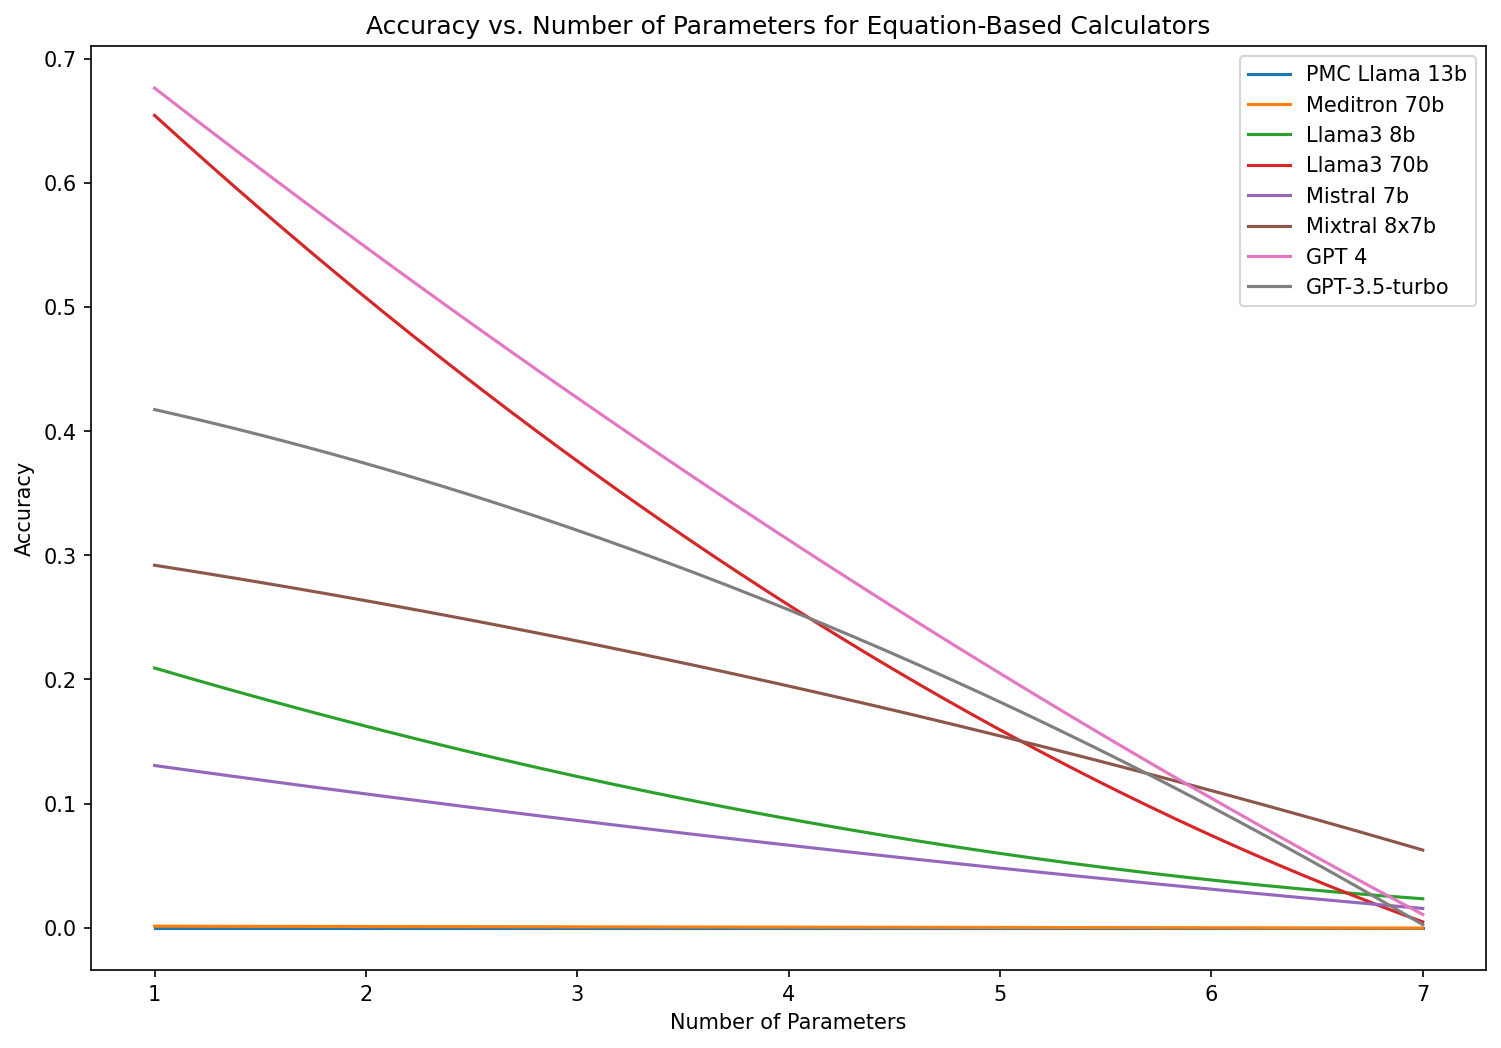
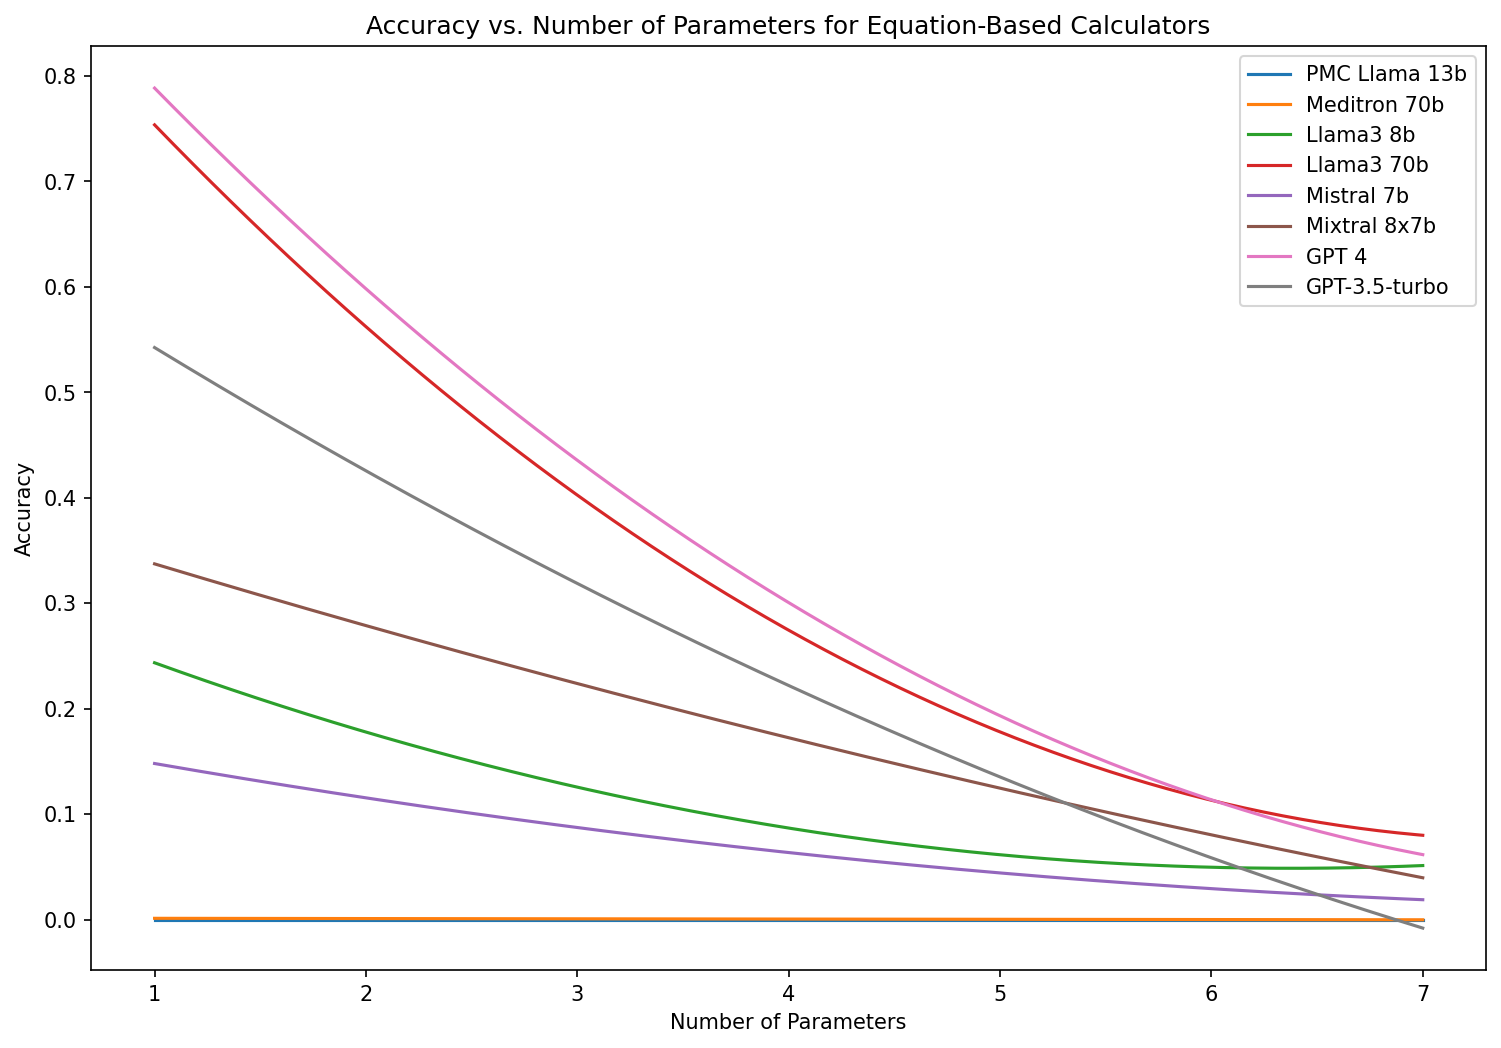
Appendix E.1 figures: count only parameters the calculator code reads
- evaluation/attribute_analysis.py: "Question" is not a parameter (MME was
  counted as 1); MME rows use their own number of inputs; drop inputs the
  code never reads (IBW weight, RCRI age, APACHE II MAP)
- regenerated Figures 2-3, points and fit coefficients
- release: add figures/; consolidated README: paper-to-script map, Table 3
  check

diff --git a/evaluation/attribute_analysis.py b/evaluation/attribute_analysis.py
@@ -2,8 +2,10 @@
 Accuracy vs. number of attributes (paper Appendix E.1, Figures 2 and 3).
 
 The number of attributes of a calculator is the number of its attributes in calculator_implementations_verified/
-name_to_python.json (its entries other than file path, explanation function, calculator name, type and question), and
-each row gets the count of its calculator. For each model, the accuracy at each attribute count is the share of rows with that
+name_to_python.json (its entries other than file path, explanation function, calculator name, type and question, and
+other than the entries in UNUSED, which the calculator code never reads), and each row gets the count of its
+calculator. MME has no fixed inputs, so its rows get their own number of Relevant Entities (dose and doses per day for
+each opioid). For each model, the accuracy at each attribute count is the share of rows with that
 count answered correctly; a second-degree polynomial is fitted to these points (np.polyfit) and drawn over the observed
 range, one figure for equation-based (lab, physical, date, dosage) and one for rule-based (risk, severity, diagnosis)
 calculators.
@@ -40,7 +42,21 @@ TYPES = {
     "rule": ("Rule-Based", ["risk", "severity", "diagnosis"]),
 }
 SETTINGS = ["direct_answer", "zero_shot", "one_shot"]
-NOT_ATTRIBUTES = {"file path", "explanation function", "calculator name", "type", "question"}
+NOT_ATTRIBUTES = {"file path", "explanation function", "calculator name", "type", "question", "Question"}  # MME's entry has both spellings
+# entries listed in name_to_python.json that the calculator code never reads (checked 2026-11-13)
+UNUSED = {10: {"weight"},                   # Ideal Body Weight: Devine formula uses sex and height only
+          17: {"age"},                      # Revised Cardiac Risk Index: six criteria, age is not one
+          28: {"Mean arterial pressure"}}   # APACHE II: MAP is computed from systolic and diastolic pressure
+# MME has no fixed inputs (a dose and doses per day for each opioid the patient takes): count the row's Relevant Entities
+PER_ROW = {49}
+
+
+def count_entities(s):
+    import ast
+    try:
+        return len(json.loads(s))
+    except Exception:
+        return len(ast.literal_eval(s))
 
 
 def load_results(path):
@@ -93,8 +109,11 @@ if __name__ == "__main__":
 
     data = pd.read_csv(args.data).set_index("Row Number")
     calculators = json.load(open(args.calculators))
-    attributes = {int(calc_id): len(set(calc) - NOT_ATTRIBUTES) for calc_id, calc in calculators.items()}
+    attributes = {int(calc_id): len(set(calc) - NOT_ATTRIBUTES - UNUSED.get(int(calc_id), set()))
+                  for calc_id, calc in calculators.items()}
     n_attributes = data["Calculator ID"].map(attributes)
+    per_row = data["Calculator ID"].isin(PER_ROW)
+    n_attributes[per_row] = data.loc[per_row, "Relevant Entities"].map(count_entities)
     if n_attributes.isna().any():
         raise SystemExit(f"calculators missing from {args.calculators}: {sorted(data['Calculator ID'][n_attributes.isna()].unique())}")
     os.makedirs(args.out_dir, exist_ok=True)

diff --git a/final_runs/consolidated_2026-11-06/build_final_release.py b/final_runs/consolidated_2026-11-06/build_final_release.py
@@ -7,7 +7,7 @@ Copies only (no recomputation, no model calls); source folders are not modified.
 - dataset/one_shot_examples.json: final_files_2026-10-16/one_shot_10_17_2026_corrected.json (differs from the main run's
   file only in the CKD-EPI example wording, which the CKD-EPI one-shot re-run used).
 - dataset/train_data.csv: dataset/train_data_10_22.csv (open items listed in the release README).
-- outputs/, error_analysis/, tables/: from this folder.
+- outputs/, error_analysis/, tables/, figures/ (Appendix E.1): from this folder.
 Writes MANIFEST.csv (rows and sha256 per file)."""
 import hashlib, json, os, shutil, sys
 import pandas as pd
@@ -30,6 +30,9 @@ COPIES = {
 for f in sorted(os.listdir(f"{HERE}/outputs")):
     if f.endswith(".jsonl"):
         COPIES[f"outputs/{f}"] = f"final_runs/consolidated_2026-11-06/outputs/{f}"
+for f in sorted(os.listdir(f"{HERE}/accuracy_vs_param_count")):
+    if f.endswith((".png", ".csv")):
+        COPIES[f"figures/{f}"] = f"final_runs/consolidated_2026-11-06/accuracy_vs_param_count/{f}"
 for f in sorted(os.listdir(f"{HERE}/tables")):
     COPIES[f"tables/{f}"] = f"final_runs/consolidated_2026-11-06/tables/{f}"
 

diff --git a/final_runs/consolidated_2026-11-06/README.md b/final_runs/consolidated_2026-11-06/README.md
@@ -14,7 +14,7 @@ against the corrected labels, and the three paper tables built from them. Source
 | `make_stats_table.py` | `tables/dataset_statistics_table.tex` (dataset statistics table) |
 | `make_code_table.py` | `outputs/code_exec_*.jsonl` (GPT-3.5 / GPT-4 code prompt, spliced the same way) and `tables/code_interpreter_table.tex` |
 | `make_train_table.py` | `tables/train_table.tex` (Appendix C training-set table, from `dataset/train_data_10_22.csv`) and the numbers for the C.1 text |
-| `accuracy_vs_param_count/run.sh` | Appendix E.1 figures (accuracy vs. number of parameters, zero-shot; equation and rule) from `outputs/`, with `evaluation/attribute_analysis.py` unchanged; points and fit coefficients as CSV in the same folder |
+| `accuracy_vs_param_count/run.sh` | Appendix E.1 figures (accuracy vs. number of parameters, zero-shot; equation and rule) from `outputs/`, with `evaluation/attribute_analysis.py`; points and fit coefficients as CSV in the same folder |
 | `count_admission_extraction_errors.py` | How many equation-based calculators had v1.0 input extractions wrong for the admission (pre-treatment) time point, at three levels of confirmation, and how each row was fixed; writes `admission_input_extraction_rows.csv` |
 | `count_v10_equation_errors.py` | Every v1.0 equation-based row followed into the revised set: kept, inputs wrong, formula wrong or replaced, with the reason; writes `v10_equation_rows.csv` |
 | `verify_v10_fixes.py` | Checks that v1.0's equation-based errors are fixed in the test set, training set and one-shot examples (independent formula recomputation for Due Date, Framingham, LDL, Calcium, MELD Na, CKD-EPI; fentanyl-in-mg and steroid-to-itself templates; urea taken as BUN); writes `verify_v10_fixes.csv` |
@@ -58,3 +58,22 @@ re-scoring reproduces the stored verdict on unchanged labels (0 differences).
   tiktoken over the raw output for GPT. Rebuilt main-run prompts equal those in `../test_data_10_22_with_prompts/`.
 - **Dataset statistics:** lengths in GPT-4 tokens (tiktoken `cl100k_base`); attributes = number of Relevant Entities.
   On v1.0 `test_data.csv` this reproduces the published attribute columns exactly and nearly all lengths.
+
+## Paper map (arXiv 2406.12036v4 = `../../2406.12036v4.pdf`)
+| Paper item | Script | Status |
+|---|---|---|
+| Figure 1: example instances | none (drawing: `../../instance_illustration/`) | CHA2DS2-VASc example shows answer 7; its note (row 44) is labelled 4 in v1.0 and now. Albumin-corrected AG example (row 769, 19.25) still correct |
+| Table 1: dataset statistics | `make_stats_table.py` | done |
+| Table 2: main accuracy | `consolidate.py` -> `make_main_results_table.py` | done |
+| Table 3: error-type examples | none (quotes from the 2024 GPT-4 run) | quotes are from the 2024 run, but all three are still errors of their type under the corrected labels (checked 2026-11-13). Wells' DVT (row 233): label -1 unchanged; the table's question needs the current wording ("score of Wells' criteria"). PERC (row 569): label 3 -> 4 because the note now says the hernia repair was "3 weeks ago" (was "in the past", inside the quote's [...]); the prior-PE miss still holds. LDL (row 524): unchanged, 128 vs the model's 142 |
+| Table 4: error types | `consolidate_errors.py` -> `make_error_table.py` | done |
+| Table 5: dataset comparison | none (literature) | unaffected |
+| Table 6: Open-Patients | `check_open_patients_table.py` | verified, unchanged |
+| Tables 7-8 | do not appear in the PDF (numbering skips) | - |
+| Table 9: calculator list | none saved (checked ad hoc, 2026-11-07) | needs a script; MAP 3->2, BMI 3->2, Due Date 1->2 |
+| Tables 10-12: tokens (B.3) | `make_token_tables.py` | done |
+| Table 13: training set (C.1) | `make_train_table.py` | done; training-set open items pending |
+| Table 14: fine-tuning (C.3) | `../../sft_rerun_2026-10-27/` (`build_sft_data.py`, `score_sft.py`) | not run (needs 4xA100) |
+| Table 15: code interpreter (D.1) | `make_code_table.py` | done |
+| Figures 2-3 (E.1) | `accuracy_vs_param_count/run.sh` -> `evaluation/attribute_analysis.py` | fixed 2026-11-13: parameters the calculator code never reads are not counted (IBW weight, RCRI age, APACHE II MAP), the `"Question"` key is not a parameter, MME rows use their own number of inputs |
+| Sec. 4.2 text: 89% classifier accuracy on 200 errors | `evaluation/sample_judge_agreement.py` | sample drawn (from `evaluation/error_analysis_10_22`, not the consolidated errors); no human labels yet |

diff --git a/final_release_2026-11-08/README.md b/final_release_2026-11-08/README.md
@@ -34,6 +34,9 @@ Which run each row comes from:
   - Excluded: 266. That is 124 label-fix answers classified against the old explanation, 30 newly wrong ones, and 112 empty or blocked classifications.
 - `error_type_summary.csv`, `error_type_table_values.csv`: per model and style, each error counted once as its earliest type (A > B > C > D).
 
+## figures/
+Appendix E.1 Figures 2 and 3 (accuracy vs. number of parameters, zero-shot), their points and fit coefficients.
+
 ## tables/
 LaTeX for the main results, error types, dataset statistics, code interpreter, token counts (B.3) and training set (C).
 
